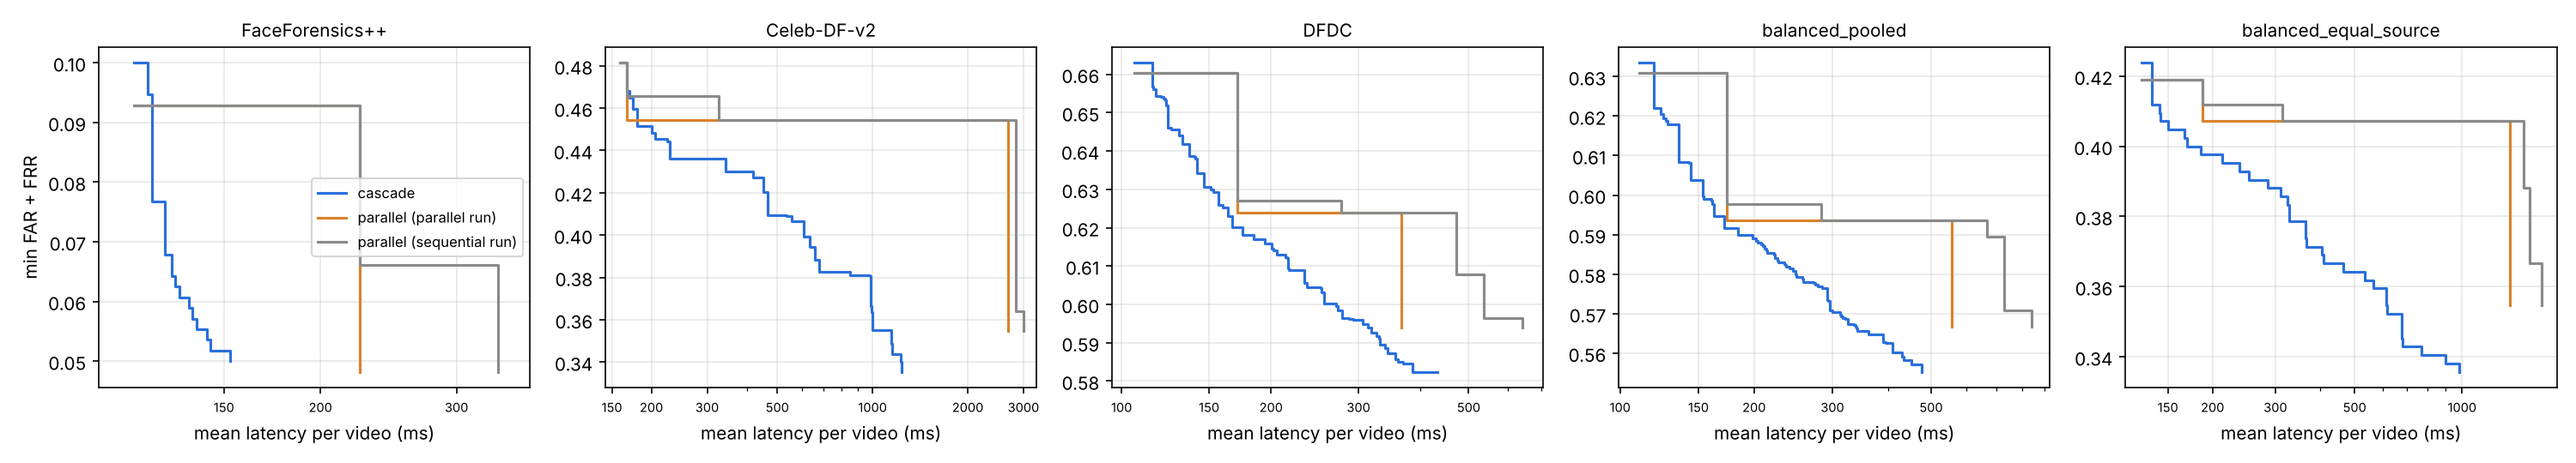
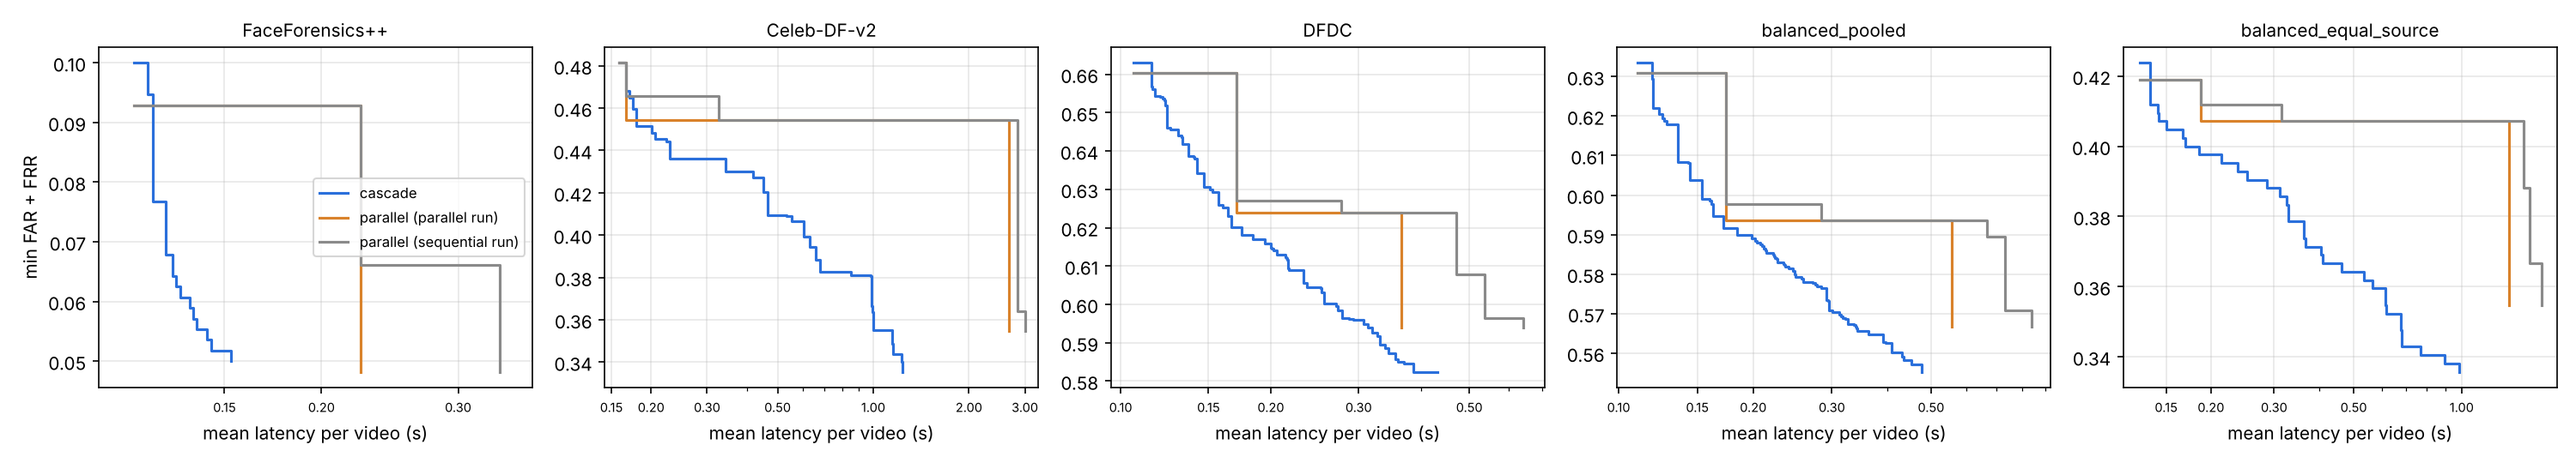
fig: latency axis in seconds
Claude-Session: https://claude.ai/code/session_011XRcxEZGNEKeozFtg9xku5

diff --git a/fusion-comparison/src/plot.py b/fusion-comparison/src/plot.py
@@ -42,15 +42,15 @@ def main() -> None:
         for arch, color in [("cascade", C_CASCADE), ("parallel (parallel run)", C_PAR),
                             ("parallel (sequential run)", C_SEQ)]:
             e = d[d.architecture == arch]
-            ax.step(e.latency_ms, e.min_far_plus_frr, where="post", color=color, label=arch)
+            ax.step(e.latency_ms / 1000.0, e.min_far_plus_frr, where="post", color=color, label=arch)
         ax.set_xscale("log")
-        ax.set_xticks([100, 150, 200, 300, 500, 1000, 2000, 3000])
+        ax.set_xticks([0.1, 0.15, 0.2, 0.3, 0.5, 1, 2, 3])
         ax.xaxis.set_major_formatter(ScalarFormatter())
         ax.xaxis.set_minor_formatter(NullFormatter())
         ax.set_title(s, fontsize=10)
-        ax.set_xlim(d.latency_ms.min() * 0.9, d.latency_ms.max() * 1.1)
+        ax.set_xlim(d.latency_ms.min() / 1000 * 0.9, d.latency_ms.max() / 1000 * 1.1)
         ax.tick_params(axis="x", labelsize=7)
-        ax.set_xlabel("mean latency per video (ms)")
+        ax.set_xlabel("mean latency per video (s)")
         ax.grid(alpha=0.3)
     axes[0].set_ylabel("min FAR + FRR")
     axes[0].legend(fontsize=8)
